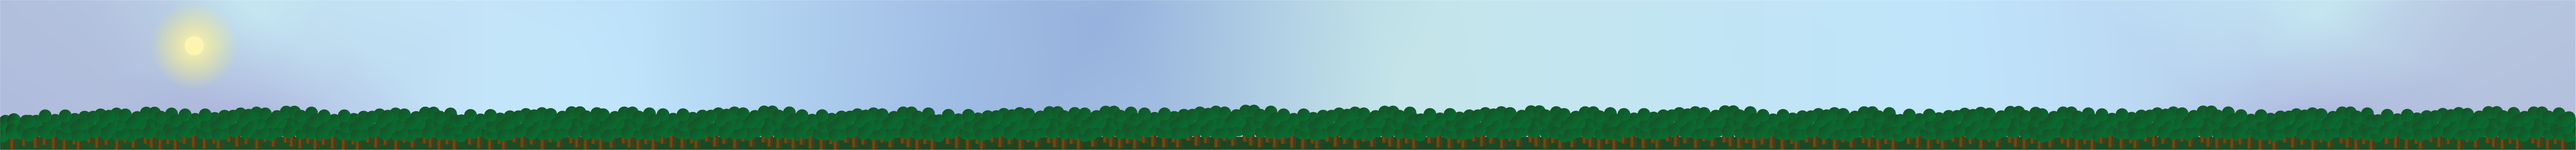
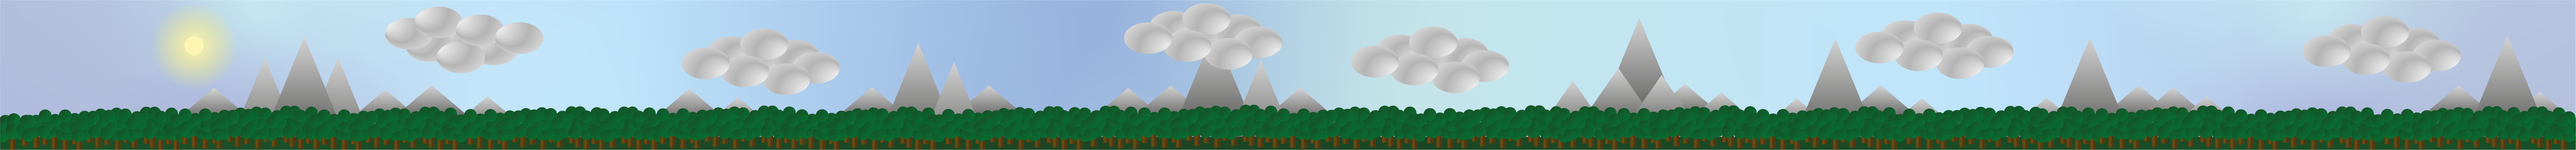
Maj fond

Changed region(s): [[0.2493, 0.0285, 0.8725, 0.7692], [0.0623, 0.057, 0.2181, 0.7692], [0.8725, 0.114, 0.9972, 0.7407]]

diff --git a/js/modules/terrain.js b/js/modules/terrain.js
@@ -155,19 +155,19 @@ function createBoundaryCylinder(scene) {
     
     const texture = new THREE.TextureLoader().load('media/fond_ecran.png');
     texture.wrapS = THREE.RepeatWrapping;
-    texture.wrapT = THREE.RepeatWrapping;
+    texture.wrapT = THREE.ClampToEdgeWrapping;
     texture.repeat.set(1, 1);
+    texture.offset.set(0, 0);
+    texture.colorSpace = THREE.SRGBColorSpace;
     
-    const cylinderMaterial = new THREE.MeshStandardMaterial({
+    const cylinderMaterial = new THREE.MeshBasicMaterial({
         map: texture, 
-        transparent: true, 
-        opacity: 1, 
         side: THREE.DoubleSide
     });
     
     const cylinder = new THREE.Mesh(cylinderGeometry, cylinderMaterial);
 
-    cylinder.position.y = 15;
+    cylinder.position.y = 14.7;
     scene.add(cylinder);
 }
 
